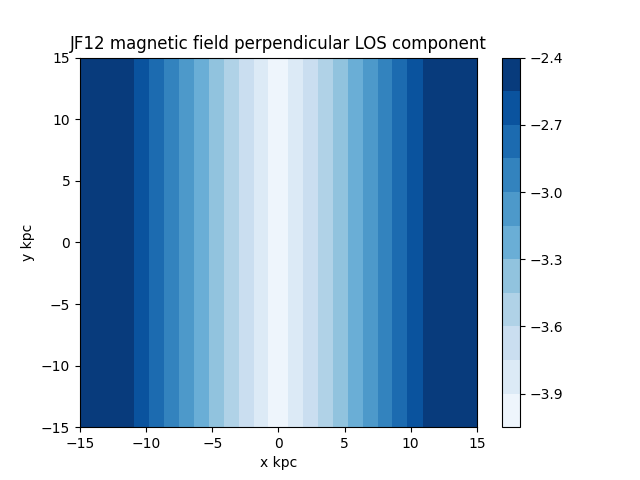
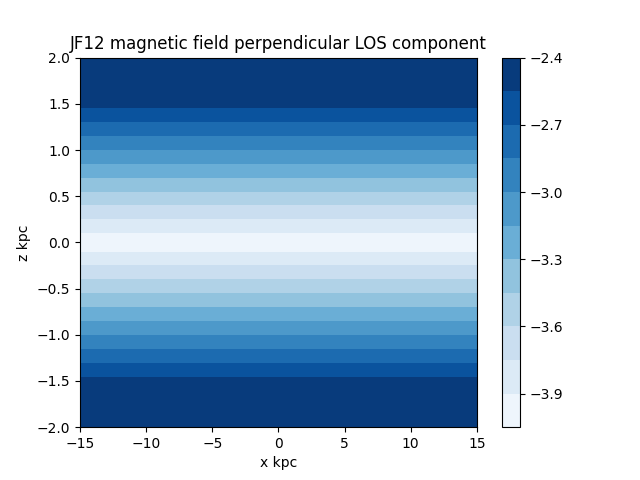
new figure

diff --git a/plot_slice_spectralindex.py b/plot_slice_spectralindex.py
@@ -76,9 +76,9 @@ x = cartesian_grid.x[:,0,0]/u.kpc
 y = cartesian_grid.y[0,:,0]/u.kpc
 z = cartesian_grid.z[0,0,:]/u.kpc
 ver_slice = alpha_data[:,int(len(y)/2),:]/alpha_data.unit
-plt.contourf(x,y,ver_slice,10,cmap='Blues')
+plt.contourf(x,z,ver_slice.T,10,cmap='Blues')
 plt.title('JF12 magnetic field perpendicular LOS component')
-plt.ylabel('y kpc')
+plt.ylabel('z kpc')
 plt.xlabel('x kpc')
 plt.colorbar()
 
